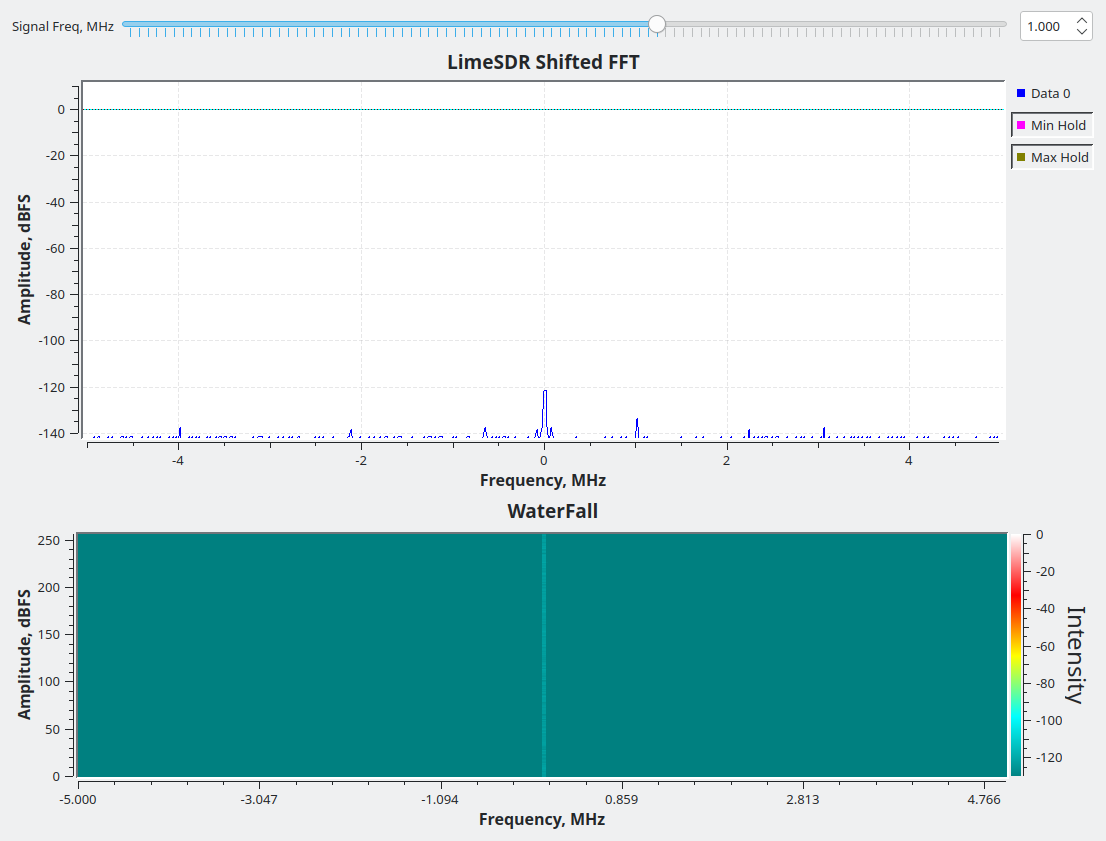
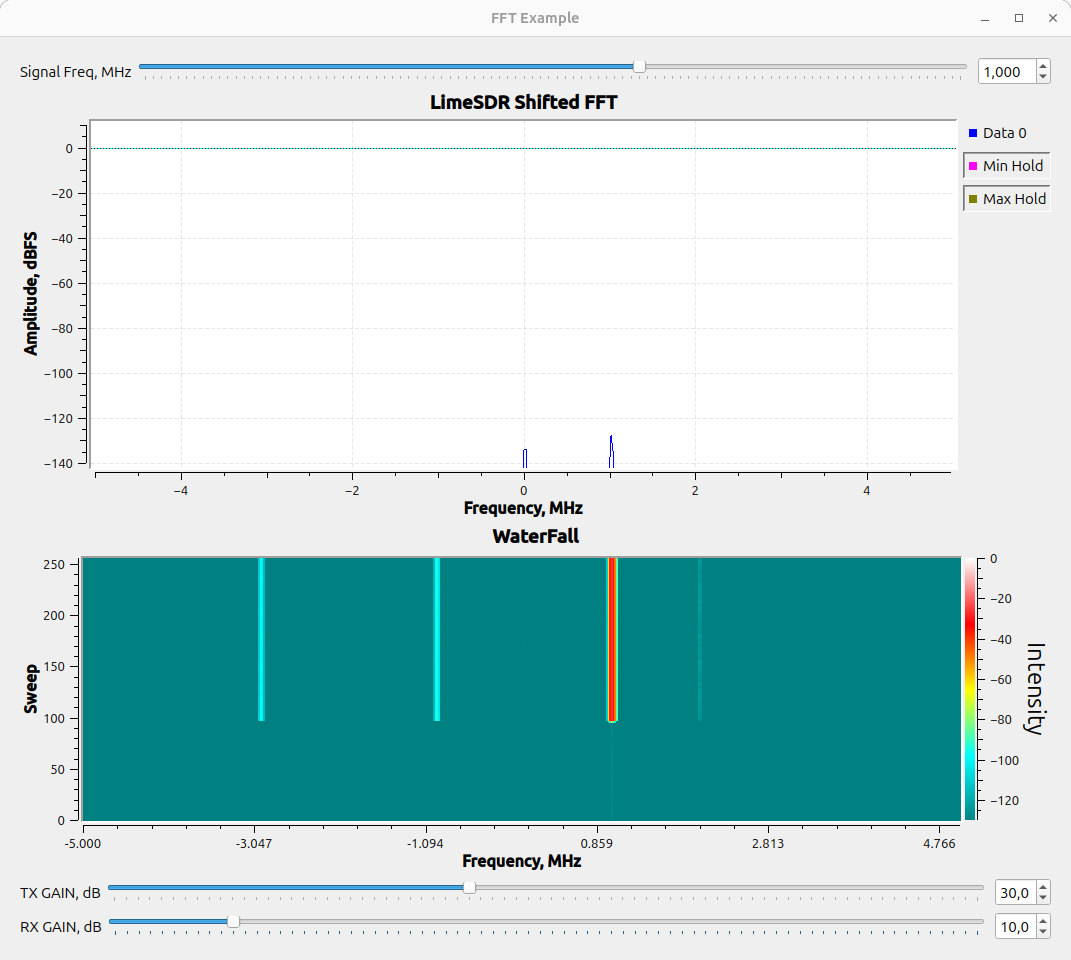
docs: updated fft example

Changed region(s): [[0.0, 0.4637, 0.986, 0.9893], [0.0, 0.0, 1.0, 0.5256], [0.5546, 0.4637, 0.5854, 0.4946]]

diff --git a/docs/docs/fft_example.rst b/docs/docs/fft_example.rst
@@ -20,6 +20,10 @@ All sources required for the example are located in **gateware/examples/fft**. T
   LiteX wrapper file incorporating the FFT module.
 - **limesdr_fft_samples.grc**
   A GNU Radio file containing blocks that scale, shift, and display the FFT data received from the board.
+- **xtrx.ini**
+  LimeSDR XTRX board setup file for GNU Radio
+- **mini.ini**
+  LimeSDR Mini V2 board setup file for GNU Radio
 
 In the standard design (see the `LimeSDR XTRX gateware description`_), raw samples are received by **lms7002_top** and then passed to **rx_path_top** for packetization. To reuse this logic and insert the FFT module, the FFT module should be placed between **lms7002_top** and **rx_path_top**.
 
@@ -79,7 +83,7 @@ To avoid conflicting assignments, you must disconnect the **lms7002_top** master
 Checking FFT results
 ~~~~~~~~~~~~~~~~~~~~~~~~~~~~~
 
-After these modifications, build the project and program the board as described in :ref:`Building the project<docs/build_project:building and loading the gateware>`.
+After these modifications, build the project and program the board as described in :ref:`build_the_project`.
 
 The FFT results can be observed using the **limesdr_fft_samples.grc** file provided with the example. Ensure that you have up-to-date versions of GNU Radio and LimeSuiteNG installed.
 
@@ -89,7 +93,7 @@ Before running flowgraph modify ``board_ini`` variable with correct setup file:
    :width: 1000
    :alt: GNU radio setup
 
-If an RF cable is connected so that it connects RX and TX of A channel, output in GNU Radio should look like in figure below, it should also react to interactions with the frequency slider.
+If an RF cable is connected in a loopback configuration, linking the RX and TX of Channel A, output in GNU Radio should look like in figure below, it should also react to interactions with the **Signal Frequency, TX Gain, RX Gain** sliders.
 
 .. figure:: images/fft_good.png
    :width: 1000
